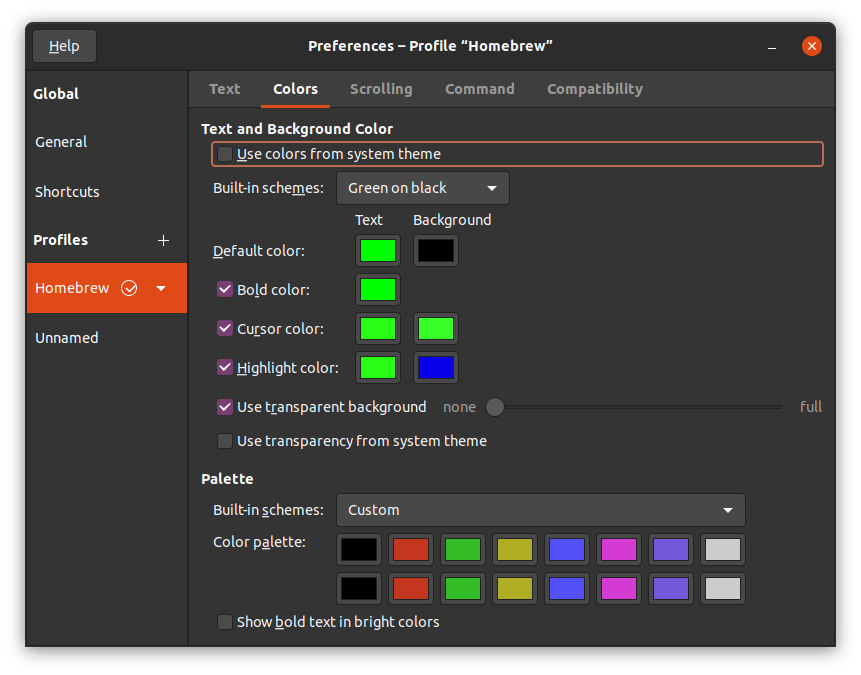
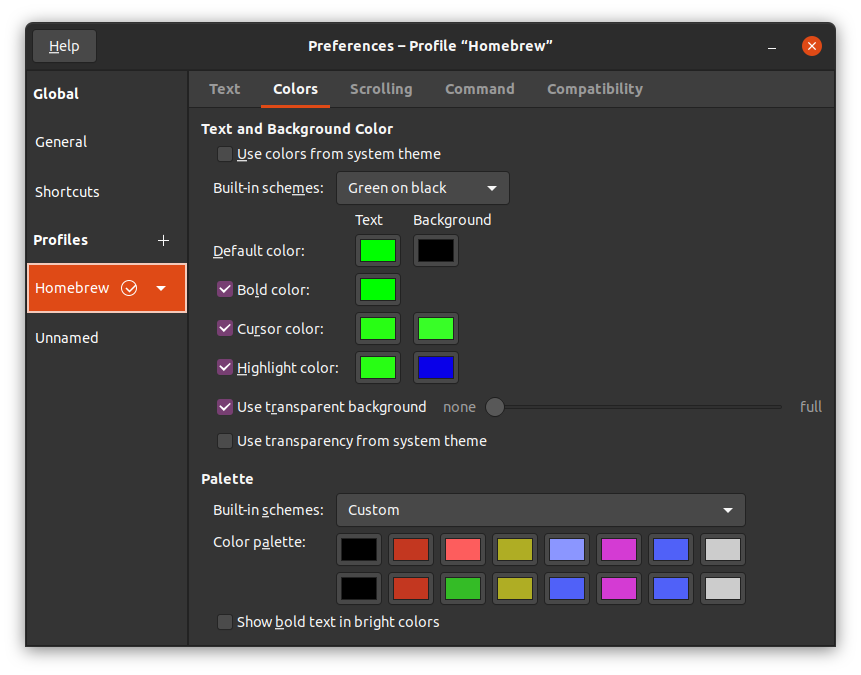
update color scheme

diff --git a/README.md b/README.md
@@ -115,8 +115,9 @@ Color codes:
 - Default color (Background): #000000
 - Highlight color (Background): #0900E9
 
-| #000000  | #C33720  | #34BC26 | #AFAD24  | #5061F8 | #D43BD3 | #5061F8 | #CCCCCC |
+| #000000  | #C33720  | #FD5D5D | #AFAD24  | #8B96FF | #D43BD3 | #5061F8 | #CCCCCC |
 |---|---|---|---|---|---|---|---|
+| #000000  | #C33720  | #34BC26 | #AFAD24  | #5061F8 | #D43BD3 | #5061F8 | #CCCCCC |
 
 (top and bottom row = same)
 
